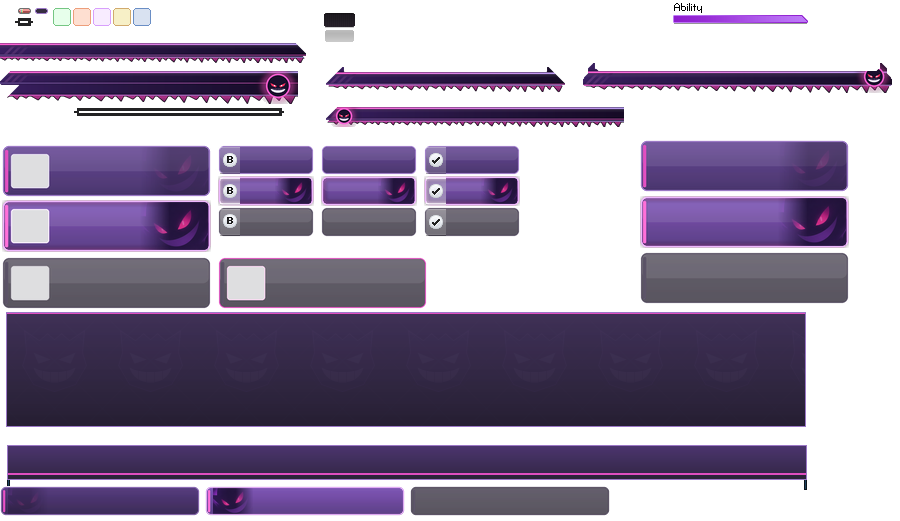
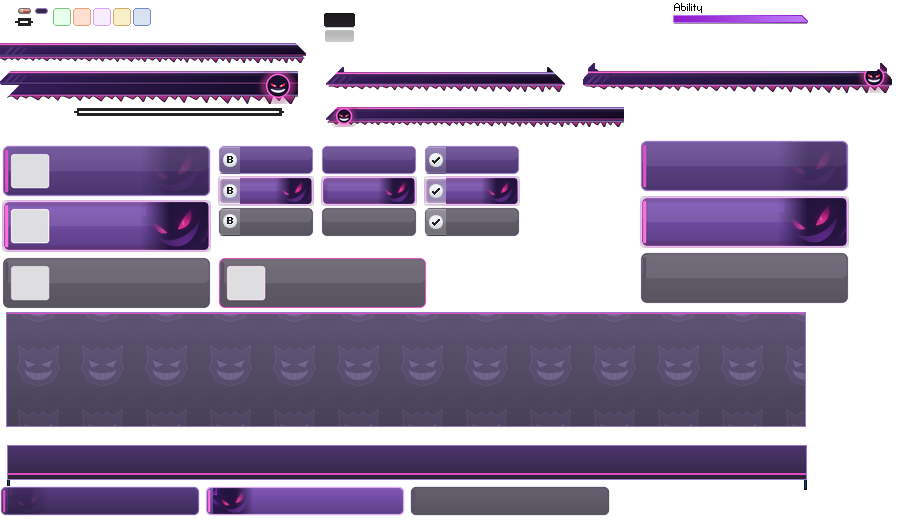
style: Ajusta el panel de objetos en combate

Changed region(s): [[0.0, 0.5835, 0.9022, 0.8292]]

diff --git a/herramientas/battle_panel.py b/herramientas/battle_panel.py
@@ -1,0 +1,34 @@
+import sys
+from PIL import Image, ImageDraw, ImageEnhance
+
+dst, pattern = sys.argv[1], sys.argv[2]
+im = Image.open(dst).convert("RGBA")
+pat = Image.open(pattern).convert("RGBA")
+
+
+def hx(h, a=255):
+    h = h.lstrip("#")
+    return (int(h[0:2], 16), int(h[2:4], 16), int(h[4:6], 16), a)
+
+
+def lerp(c1, c2, t):
+    return tuple(int(c1[i] + (c2[i] - c1[i]) * t) for i in range(4))
+
+
+x, y, w, h = 6, 312, 800, 115
+panel = Image.new("RGBA", (w, h))
+pd = ImageDraw.Draw(panel)
+for j in range(h):
+    pd.line([(0, j), (w, j)], fill=lerp(hx("#2A1846", 172), hx("#140C22", 192), j / (h - 1)))
+tile = ImageEnhance.Brightness(pat).enhance(1.9)
+tile = tile.resize((tile.width * 2 // 3, tile.height * 2 // 3), Image.LANCZOS)
+tile.putalpha(tile.getchannel("A").point(lambda a: int(a * 0.32)))
+for tx in range(0, w, tile.width):
+    for ty in range(-tile.height // 3, h, tile.height):
+        panel.alpha_composite(tile, (tx, ty))
+pd = ImageDraw.Draw(panel)
+pd.rectangle([0, 0, w - 1, 1], fill=hx("#E04EC0"))
+pd.rectangle([0, 0, w - 1, h - 1], outline=hx("#9B78C6"))
+im.paste(Image.new("RGBA", (w, h), (0, 0, 0, 0)), (x, y))
+im.alpha_composite(panel, (x, y))
+im.save(dst, optimize=True)
